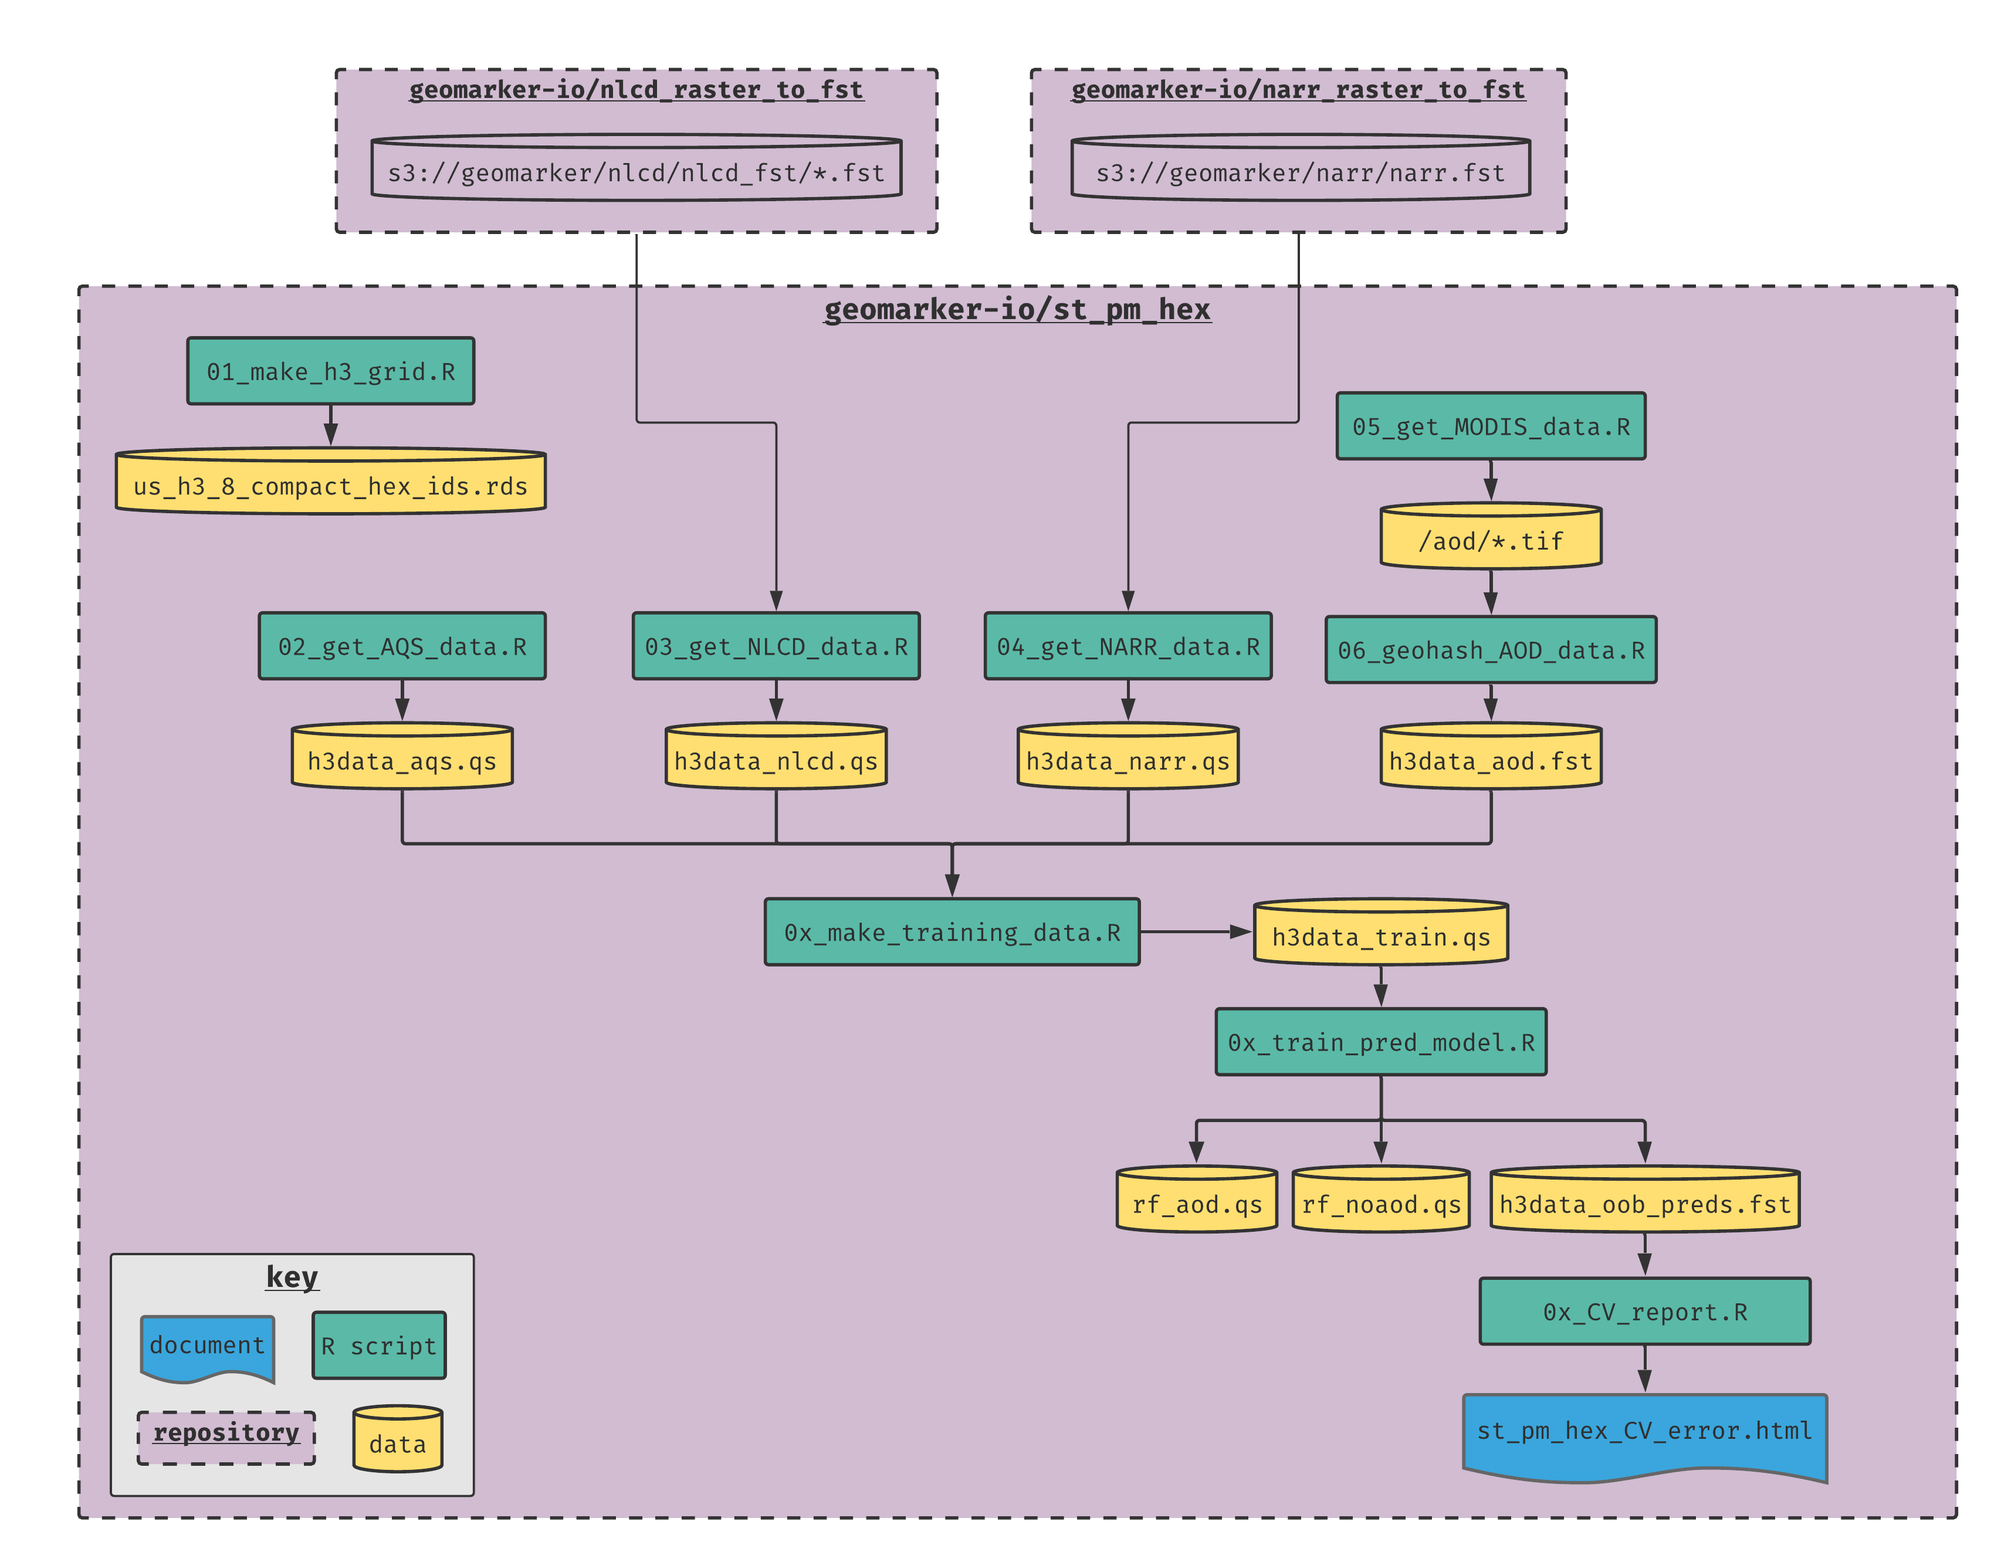
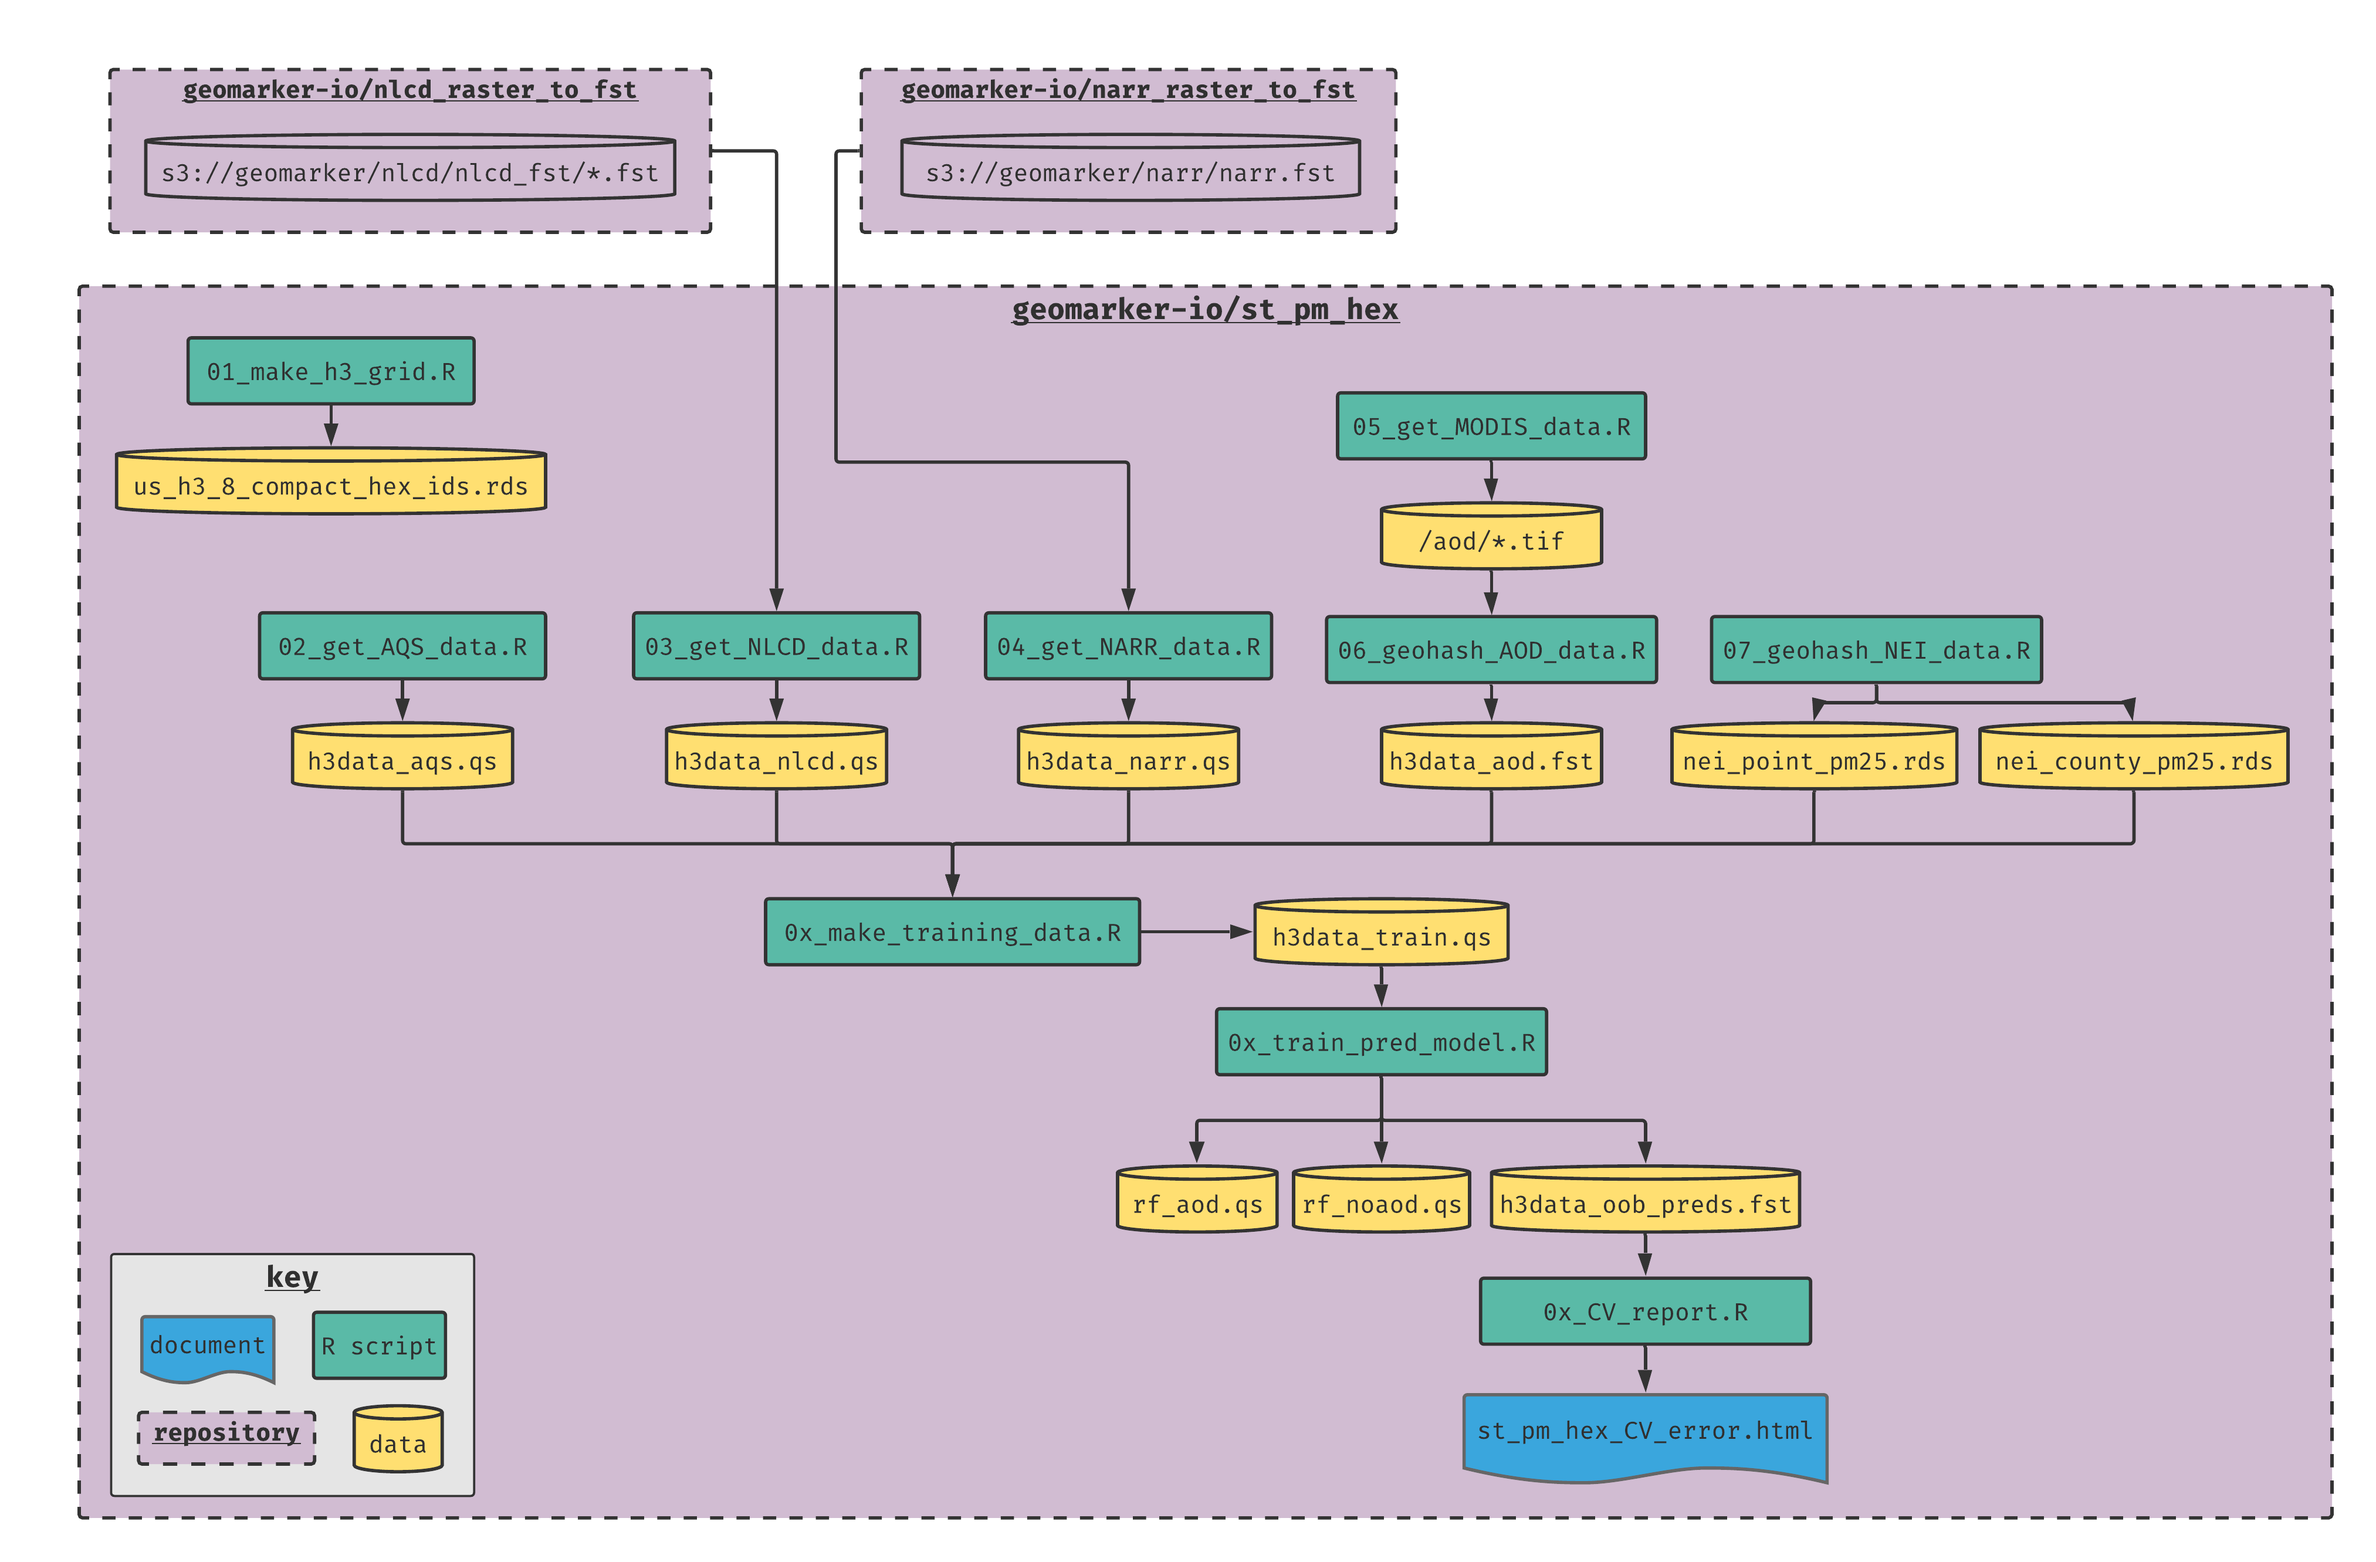
adding NEI data processing

diff --git a/README.md b/README.md
@@ -137,14 +137,18 @@ rm aod_MCD19A2.A*
 - use `06_make_AOD_data.R` to extract all non-missing AOD data from folder of rasters as a data.table fst file keyed on h3 and date
 - `h3data_aod.fst` (saved as `s3://geomarker/st_pm_hex/aod.fst`) takes up 6.9 GB in RAM and 1.1 GB on disk
 
-## ?? get NEI data
+## 7. get NEI data
 
 - [NEI](https://www.epa.gov/air-emissions-inventories/national-emissions-inventory-nei) is the National Emissions Inventory Database
-  - point data available in 2008, 2011, 2014, 2017
-- NEI has more than industrial emissions data
-  - [scc](https://ofmpub.epa.gov/sccwebservices/sccsearch/) is a code which defines the type of emissions
-  - includes aircraft, other non-point sources
-  - county = "Multiple (portable facilities)" is for non-point sources averaged over a whole county; use `fips code` in this case?
+  - data available in 2008, 2011, 2014, 2017
+- [scc](https://ofmpub.epa.gov/sccwebservices/sccsearch/) is a code which defines the type of emissions
+- EIS is grouping of SCC codes into: point, nonpoint, onroad, nonroad, and event sources
+- script will output `nei_county_pm25.rds`  and `nei_point_pm25.rds` files (saved as `s3://geomarker/nei/nei_county_pm25.rds` and `s3://geomarker/nei/nei_point_pm25.rds`)
+- county file contains `total_pm25` for each `fips`, each `nei_year` (2008, 2011, 2014, or 2017), and each `eis` category (point, nonpoint, onroad, nonroad, event)
+    - event data is not available for 2008
+    - at the time, nonpoint, and onroad data was not yet available for 2017
+- point file contains sf object with `h3` geohash, and `total_pm25` for each `nei_year` (all `eis` codes are equal to "point" for this file)
+- note that only non-zero emission estimates are included for each county, so if a county-year row is no present in the file, it can be assumed that there were zero total pm2.5 emissions
 
 ## ?? get GFED data
 
@@ -166,6 +170,13 @@ rm aod_MCD19A2.A*
 - file saved as `s3://geomarker/st_pm_hex/h3data_train.fst` (787 MB in RAM, 109 MB on disk)
 
 ## train pred model
+
+### CV
+
+- Brokamp, 2020: OOB CV R2 = XXX
+- Brokamp, 2018: LOOCV R2 = 0.91
+- Hu, 2017: 10-fold CV R2 = 0.84
+- QD, 2016: 10-fold CV R2 = 0.80
   
 ## predicting for all h3-dates
 
